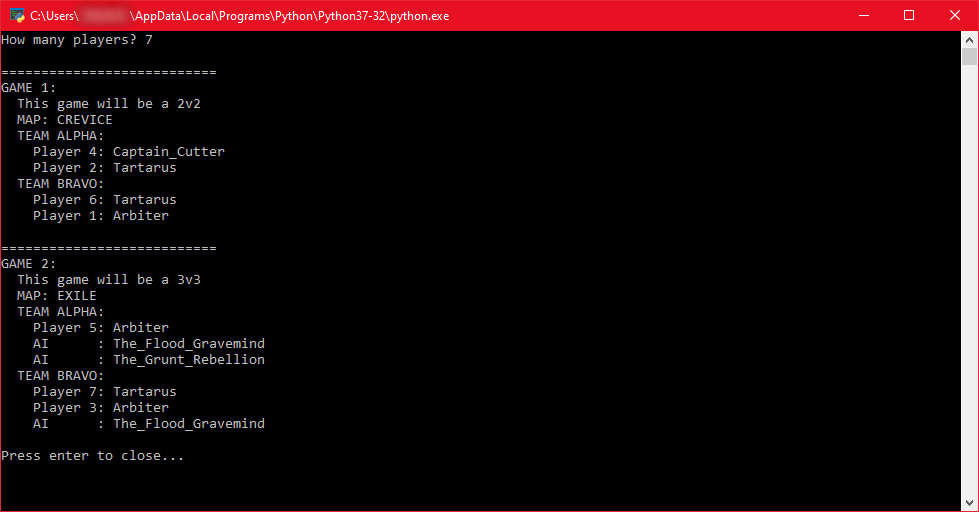
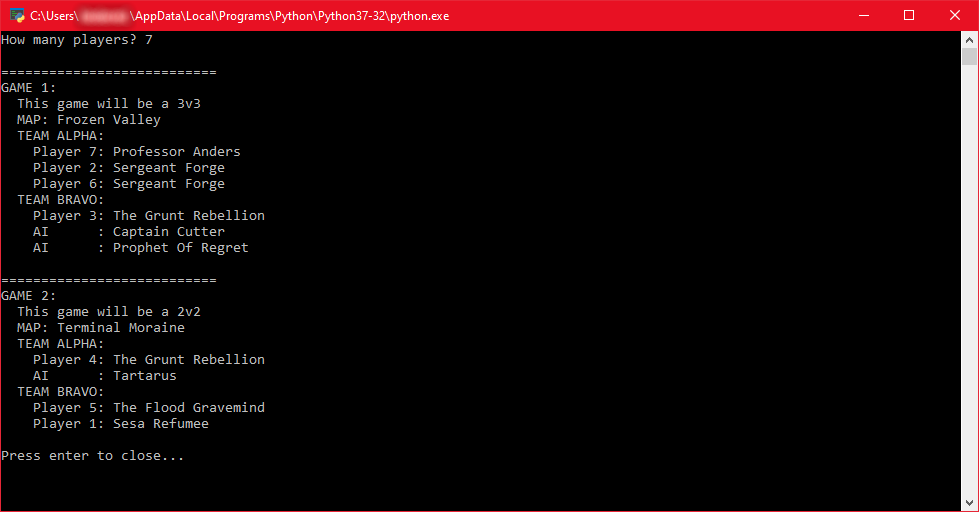
Removed underscores from leader/map names, and decapitalized map names. Updated sample output image.

diff --git a/HWRNG.py b/HWRNG.py
@@ -12,8 +12,6 @@ ConfigAlternateHumanTeamAssignmentAlgorithm = 1#if this is set to 1, players wil
 #BY DEFAULT, players have a 50/50 chance of being assigned to each team.
 #WITH THIS VARIABLE SET TO 1, players will have an equal chance of being placed in each open slot.
 #This would mean that the algorithm would be more biased towards having teams with roughly equal amount of humans on each team.
-
-#todo: also make it so that the names of maps/leaders print with spaces instead of underscores if possible?
 '''##########################################
 ############### End of config ###############
 ##########################################'''
@@ -37,24 +35,24 @@ class HWLeader(Enum):#Enum with all possible leaders in Halo Wars
     
 class HWMap(Enum):#Enum with all possible maps in Halo Wars
     INVALID = 0#except this
-    BLOOD_GULTCH = 1#1v1
-    CHASMS = 2
-    PIRTH_OUTSKIRTS = 3
-    RELEASE = 4
-    TUNDRA = 5
-    BARRENS = 6
-    BLOOD_RIVER = 7
-    BEASLEYS_PLATEAU = 8#2v2
-    CREVICE = 9
-    THE_DOCKS = 10
-    LABYRINTH = 11
-    REPOSITORY = 12
-    TERMINAL_MORAINE = 13
-    MEMORIAL_BASIN = 14
-    EXILE = 15#3v3
-    FORT_DEEN = 16
-    FROZEN_VALLEY = 17
-    GLACIAL_RAVINE = 18
+    Blood_Gultch = 1#1v1
+    Chasms = 2
+    Pirth_Outskirts = 3
+    Release = 4
+    Tundra = 5
+    Barrens = 6
+    Blood_River = 7
+    Beasleys_Plateau = 8#2v2
+    Crevice = 9
+    The_Docks = 10
+    Labyrinth = 11
+    Repository = 12
+    Terminal_Moraine = 13
+    Memorial_Basin = 14
+    Exile = 15#3v3
+    Fort_Deen = 16
+    Frozen_Valley = 17
+    Glacial_Ravine = 18
 
 '''
 * HWError: function that displays error/warning message and terminates program if needed.
@@ -154,7 +152,7 @@ while (remainingUnallocatedHumans > 0):
         mapThisGame = HWMap(random.randint(8,18))
     else:#3v3
         mapThisGame = HWMap(random.randint(15,18))
-    print("  MAP: " + str(mapThisGame.name))
+    print("  MAP: " + str(mapThisGame.name).replace('_',' '))#Print map. Also remove underscores from map names using str.replace().
     
     #STEP 4.4: RANDOMIZE WHICH TEAM EACH HUMAN IS ON
     rows, cols = (teamSize*2, 2)                                    #initialize the player array according to team size (and thus # of players in game)
@@ -163,7 +161,7 @@ while (remainingUnallocatedHumans > 0):
     if (ConfigAlternateHumanTeamAssignmentAlgorithm == 0):
         for i in range(humansThisGame):                        #assign each human a slot in array.
             desiredSlot = random.randint(0,1)*teamSize
-            while (arr[desiredSlot][0] != 0):
+            while (arr[desiredSlot][0] != 0):#find next open slot after desiredSlot
                 desiredSlot = desiredSlot + 1
                 if (desiredSlot >= rows):
                     desiredSlot = 0
@@ -177,13 +175,13 @@ while (remainingUnallocatedHumans > 0):
         for i in range(humansThisGame):
             desiredSlot = -1
             randomNumber = random.randint(team1index,(teamSize*2-1)-team2index)
-            if (randomNumber < teamSize):
+            if (randomNumber < teamSize):#player is on team 1
                 desiredSlot = 0
                 team1index = team1index + 1
-            else:
+            else:#player is on team 2
                 desiredSlot = teamSize
                 team2index = team2index + 1
-            while (arr[desiredSlot][0] != 0):
+            while (arr[desiredSlot][0] != 0):#find next open slot after desiredSlot
                 desiredSlot = desiredSlot + 1
                 if (desiredSlot >= rows):
                     desiredSlot = 0
@@ -197,16 +195,16 @@ while (remainingUnallocatedHumans > 0):
         else:#if an AI player is in this slot (AIs cannot play as the United Rebel Front in this game)
             arr[i][1] = HWLeader(random.randint(2,10))
     
-    #STEP 4.6: PRINT RESULTS. FIX SPACING TO DYNAMICALLY RESIZE OUTPUT BASED ON NUMBER OF PLAYERS USING str.rjust().
+    #STEP 4.6: PRINT RESULTS. FIX SPACING TO DYNAMICALLY RESIZE OUTPUT BASED ON NUMBER OF PLAYERS USING str.rjust(). Also remove underscores from leader names using str.replace().
     for i in range((int)(rows)):
         if (i == 0):
             print("  TEAM ALPHA:")
         elif(i == (int)(rows/2)):
             print("  TEAM BRAVO:")
         if (arr[i][0] != 0):
-            print("    Player " + str(arr[i][0]).rjust(len(str(humanCount)),' ') + ": " + str(arr[i][1].name))
+            print("    Player " + str(arr[i][0]).rjust(len(str(humanCount)),' ') + ": " + str(arr[i][1].name).replace('_',' '))
         else:
-            print("    AI     " + str().rjust(len(str(humanCount)),' ') + ": " + str(arr[i][1].name))
+            print("    AI     " + str().rjust(len(str(humanCount)),' ') + ": " + str(arr[i][1].name.replace('_',' ')))
    
     #STEP 4.7: FINISH LOOP AND PREPARE VARIABLES FOR NEXT ITERATION.    
     numGamesLeft = numGamesLeft - 1
